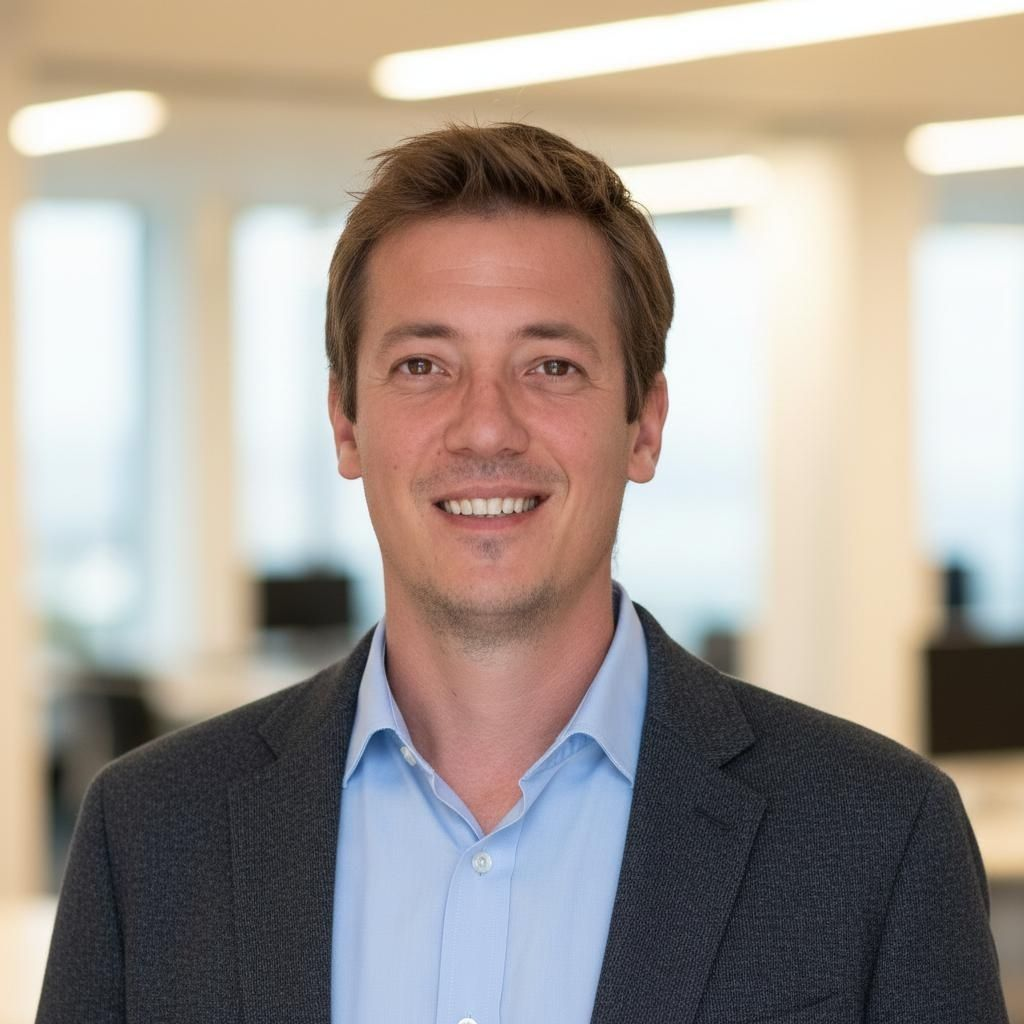
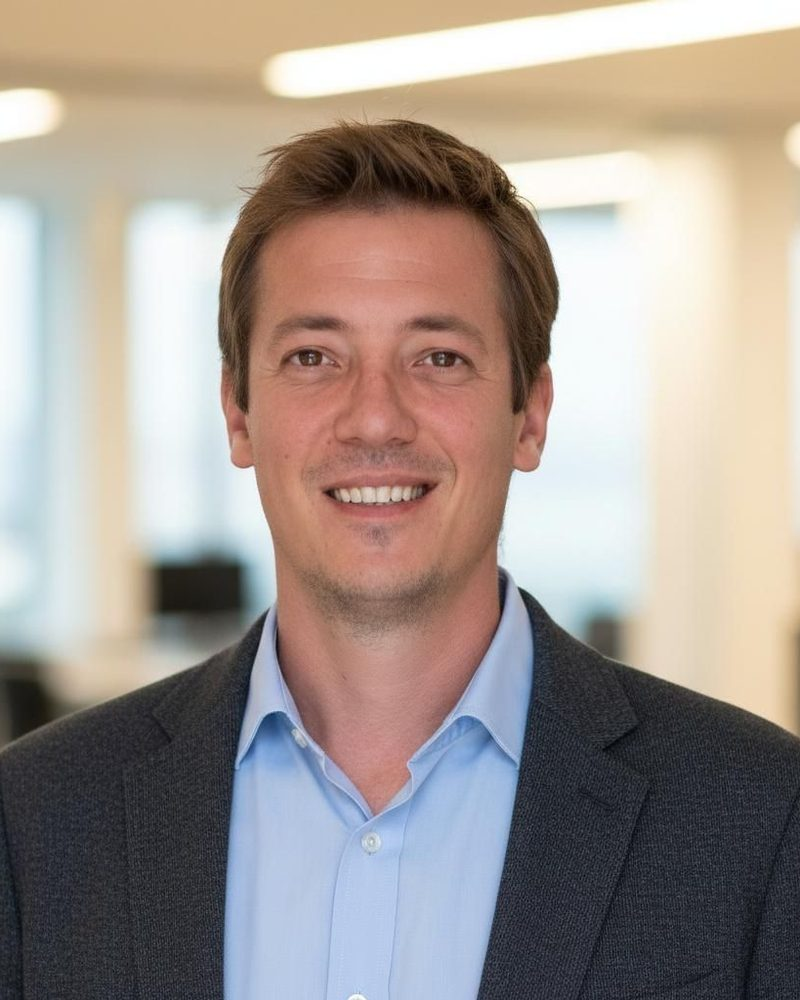
fix(a11y): contrast WCAG AA + LCP optimization + security headers

diff --git a/src/styles/global.css b/src/styles/global.css
@@ -7,11 +7,16 @@
   --color-surface-warm: #EBE5D9;
   --color-primary: #2D5A4F;
   --color-primary-deep: #1F4138;
-  --color-accent-cta: #C97A4B;
-  --color-accent-cta-hover: #B36A3D;
-  --color-accent-cool: #8FA5AB;
+  --color-accent-cta: #B26432;       /* darkened from #C97A4B for AA contrast (4.7:1 with white) */
+  --color-accent-cta-hover: #98531F;
+  --color-accent-cta-on-dark: #E89B70; /* lighter terracotta for use as text on primary-deep */
+  --color-accent-cool: #8FA5AB;       /* decorative use only (chip backgrounds, dots) */
+  --color-accent-cool-text: #4A6168;  /* AA-compliant variant for text on cream/warm */
   --color-text-primary: #1A2421;
-  --color-text-muted: #6B7570;
+  --color-text-muted: #5A625E;        /* darkened from #6B7570 → 5.1:1 on cream */
+  --color-text-muted-warm: #4F5754;   /* slightly darker for use on surface-warm (#EBE5D9) */
+  --color-text-on-dark: #E8E1D0;      /* high-contrast cream for text on primary-deep (~10:1) */
+  --color-text-on-dark-muted: #BBC5BD; /* AA-compliant muted on primary-deep (~5.5:1) */
   --color-border: #DCD5C7;
 
   /* Fonts */
@@ -86,7 +91,7 @@ svg.icon {
 /* ─── BUTTONS ─── */
 .btn-cta {
   background: var(--color-accent-cta);
-  color: #FFF8F0;
+  color: #FFFFFF;
   border: none;
   border-radius: 8px;
   padding: 10px 18px;
@@ -125,8 +130,8 @@ svg.icon {
   display: inline-flex;
   align-items: center;
   gap: 8px;
-  background: rgba(143,165,171,0.18);
-  color: #4A6168;
+  background: rgba(143,165,171,0.22);
+  color: var(--color-accent-cool-text);
   font-family: var(--font-sans);
   font-size: 12px;
   font-weight: 500;